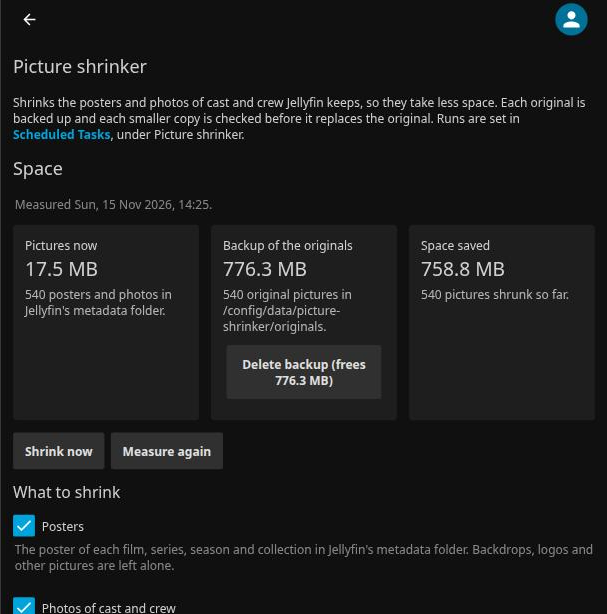
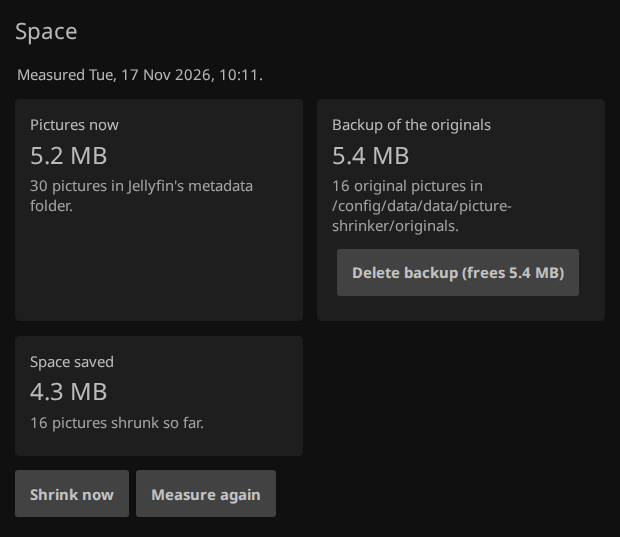
README: screenshots of version 1.2
The settings screenshot was from 1.1. New ones from Picture shrinker 1.2.1.0 on a
throwaway Jellyfin 12.4: the Space section (top), the choice of backup before it is made
(after the install steps), and Start again with its question (in Start again).

diff --git a/README.md b/README.md
@@ -4,7 +4,7 @@ Works on any Jellyfin 10.11 or Jellyfin 12 server; you do not need Starboard.
 
 A Jellyfin plug-in by TheMightyTRexUK, GPLv3 licence.
 
-![The Picture shrinker settings page in Jellyfin's dashboard: the Space section shows the pictures now, the backup with a Delete backup button, and the space saved](images/settings.png)
+![The Space section of Picture shrinker's settings page in Jellyfin 12: 5.2 MB of pictures now, a 5.4 MB backup of the originals with a Delete backup button, 4.3 MB saved with 16 pictures shrunk, and the Shrink now and Measure again buttons](images/settings.png)
 
 ## What it does
 
@@ -58,6 +58,8 @@ After the restart:
 Nothing is shrunk until you choose, on its settings page under **Original pictures**, **Keep a backup copy of each
 original** or **Just shrink, with no backup**. There is no default. Then the first run is every Sunday at 03:30, or
 when you choose **Shrink now**.
+
+![Picture shrinker's settings page before a choice is made: a notice says nothing is shrunk until you choose, and Original pictures offers Keep a backup copy of each original and Just shrink, with no backup, with neither chosen](images/settings-choose.png)
 
 If you use Starboard, it can do all of this for you in **Settings**, **Apps**, **Jellyfin**, **Picture shrinker**.
 
@@ -155,6 +157,8 @@ If you choose **Just shrink**, the settings page warns that pictures shrunk from
 **Start again**, on the settings page, clears everything and has Jellyfin download pictures again from the internet.
 There are two, and each asks you first:
 
+![The Start again section, with the buttons Start again: the pictures it shrinks and Start again: every picture](images/start-again.png)
+
 - **Start again: the pictures it shrinks:** every type in the table above, whatever is ticked in **What to shrink**
   (it is a reset, so a type you turned off after shrinking it comes back too).
 - **Start again: every picture:** Jellyfin replaces every picture of every film, series, season, collection and
@@ -174,6 +178,8 @@ Each one, in order:
      at full size. Metadata is filled in only where it is missing.
    - **Every picture:** nothing is moved. Jellyfin refreshes each library, with everything in it, and each person,
      replacing every picture.
+
+![The question before Start again: the pictures it shrinks. It says the backup and the plug-in's records are deleted, Jellyfin downloads every picture it shrinks again at full size, the backup choice is kept and a picture not downloaded again is put back after a day, with Cancel and Start again buttons](images/start-again-question.png)
 
 The old picture is kept until Jellyfin has a new one, so a poster you uploaded yourself, or one no source has, is
 never lost. Every 10 minutes while any are waiting, and at the start of each run, the shrinker checks them: once
